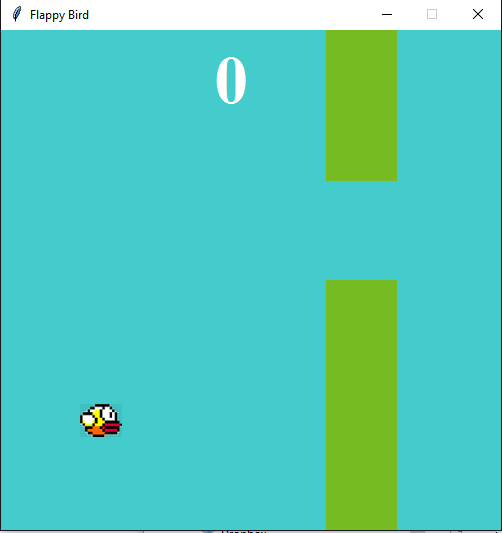
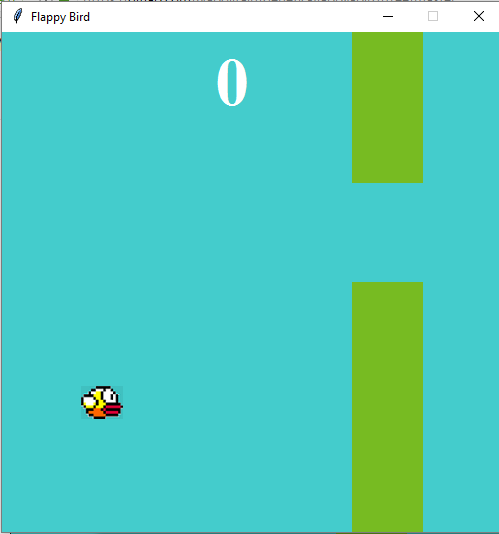
1.03

Changed region(s): [[0.0, 0.0, 1.0, 1.0], [0.1503, 0.7205, 0.2405, 0.8405], [0.4208, 0.0901, 0.511, 0.2101]]

diff --git a/main.py b/main.py
@@ -25,7 +25,9 @@ pipelineY = 150
 pipelineTop = background.create_rectangle(pipelineX, 0, pipelineX + 70, pipelineY, fill="#7B2", outline="#7B2")
 pipelineBottom = background.create_rectangle(pipelineX, pipelineY + 100, pipelineX + 70, 500, fill="#7B2", outline="#7B2")
 
-iSText = background.create_text(230, 50, fill="white", font="Times 50 bold", text="0")
+iSText = background.create_text(230, 50, fill="white", font="Times 50 bold", text="0") # instant score text
+byText = background.create_text(30, 440, fill="white", font="Times 15 bold", text=str(birdY)) # bird y text
+pyText = background.create_text(30, 460, fill="white", font="Times 15 bold", text=str(pipelineY)) # pipeline y text
 
 try:
 	with open('stats.json', 'r') as f:
@@ -67,14 +69,17 @@ def motion():
 	if (birdY < 470 and flyToggle <= 0): # gravity effect
 		birdY += 4
 		background.coords(bird, 100, birdY)
+		background.itemconfig(byText, text=str(birdY))
 	if (birdY > 30 and flyToggle > 0): # fly
 		birdY -= 4
 		flyToggle -= 1
 		background.coords(bird, 100, birdY)
+		background.itemconfig(byText, text=str(birdY))
 	if (pipelineX < -100): # pipelines
 		pipelineX = 500
 		temp = [max(pipelineY - 160, 0), min(pipelineY + 160, 350)] # must correct random impossible challenges
-		pipelineY = random.randint(0, 350)
+		pipelineY = random.randint(50, 350) # (0, 350)
+		background.itemconfig(pyText, text=str(pipelineY))
 	else:
 		pipelineX -= 5
 	if (birdX < pipelineX and (birdX + 9) >= pipelineX): # increment score
